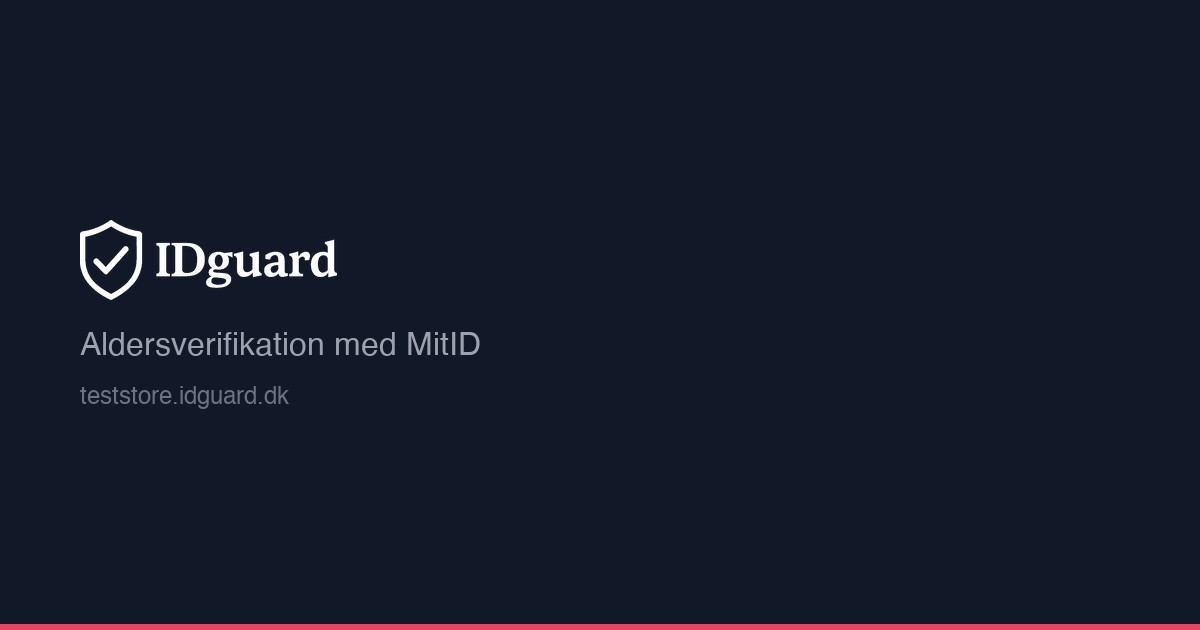
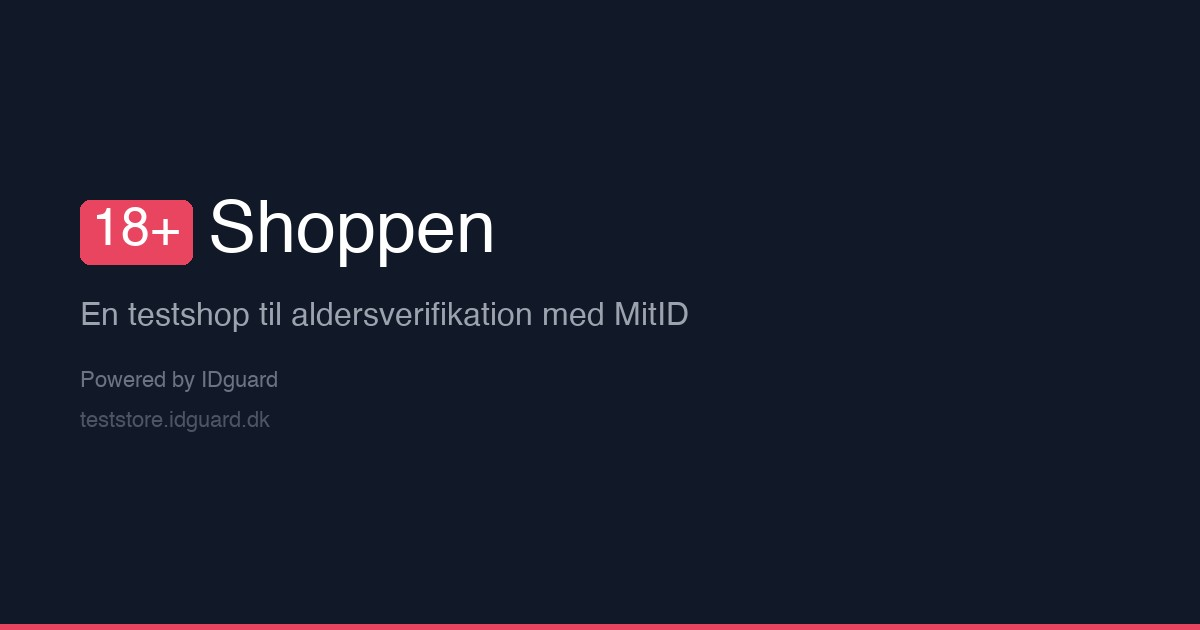
Rebrand shop to '18+ Shoppen' with Powered by IDguard
- Header: text logo with red 18+ badge
- Footer: 18+ Shoppen brand + 'Powered by IDguard' with logo link
- New OG image with 18+ Shoppen branding
- Updated theme name in style.css

Changed region(s): [[0.0617, 0.3016, 0.5858, 0.6937]]

diff --git a/style.css b/style.css
@@ -1,7 +1,7 @@
 /*
-Theme Name: IDguard Test Store
-Theme URI: https://idguard.dk
-Description: Minimalist WooCommerce theme for the IDguard test store — age verification with MitID.
+Theme Name: 18+ Shoppen
+Theme URI: https://teststore.idguard.dk
+Description: Minimalist WooCommerce theme for 18+ Shoppen — a test store for IDguard age verification with MitID.
 Author: IDguard
 Version: 1.1.0
 Requires at least: 6.0
@@ -103,14 +103,23 @@ img { max-width: 100%; height: auto; display: block; }
 }
 
 .site-logo a {
+    color: #fff;
+    font-size: 1.25rem;
+    font-weight: 700;
+    letter-spacing: -0.3px;
     display: flex;
     align-items: center;
+    gap: 6px;
 }
 
-.site-logo .logo-img {
-    height: 28px;
-    width: auto;
-    filter: brightness(0) invert(1);
+.logo-age {
+    background: var(--color-accent);
+    color: #fff;
+    font-size: 0.8rem;
+    font-weight: 800;
+    padding: 2px 7px;
+    border-radius: 4px;
+    letter-spacing: 0;
 }
 
 .header-nav {
@@ -657,12 +666,38 @@ label {
     margin: 0 auto;
 }
 
-.footer-logo {
-    height: 24px;
+.footer-brand {
+    font-weight: 700;
+    color: rgba(255, 255, 255, 0.7);
+    font-size: 1rem;
+    margin-bottom: 8px;
+}
+
+.footer-brand .logo-age {
+    font-size: 0.7rem;
+    padding: 1px 5px;
+}
+
+.footer-powered {
+    display: flex;
+    align-items: center;
+    justify-content: center;
+    gap: 8px;
+    margin: 16px 0;
+    color: rgba(255, 255, 255, 0.4);
+    font-size: 0.8rem;
+}
+
+.powered-logo {
+    height: 18px;
     width: auto;
     filter: brightness(0) invert(1);
-    opacity: 0.7;
-    margin: 0 auto 8px;
+    opacity: 0.6;
+    transition: opacity var(--transition-fast);
+}
+
+.powered-logo:hover {
+    opacity: 1;
 }
 
 .footer-tagline {

diff --git a/footer.php b/footer.php
@@ -1,7 +1,13 @@
     <footer class="site-footer">
         <div class="footer-inner">
-            <img src="<?php echo esc_url(get_template_directory_uri() . '/assets/images/idguard-logo.png'); ?>" alt="IDguard" class="footer-logo">
-            <p class="footer-tagline">Aldersverifikation med MitID &mdash; hurtigt, sikkert, og uden besvær.</p>
+            <p class="footer-brand"><span class="logo-age">18+</span> Shoppen</p>
+            <p class="footer-tagline">En testshop til aldersverifikation med MitID.</p>
+            <div class="footer-powered">
+                <span>Powered by</span>
+                <a href="https://idguard.dk">
+                    <img src="<?php echo esc_url(get_template_directory_uri() . '/assets/images/idguard-logo.png'); ?>" alt="IDguard" class="powered-logo">
+                </a>
+            </div>
             <div class="footer-links">
                 <a href="https://idguard.dk">idguard.dk</a>
                 <a href="<?php echo esc_url(wc_get_page_permalink('shop')); ?>">Shop</a>

diff --git a/header.php b/header.php
@@ -13,7 +13,7 @@
         <div class="header-inner">
             <div class="site-logo">
                 <a href="<?php echo esc_url(home_url('/')); ?>">
-                    <img src="<?php echo esc_url(get_template_directory_uri() . '/assets/images/idguard-logo.png'); ?>" alt="IDguard" class="logo-img">
+                    <span class="logo-age">18+</span> Shoppen
                 </a>
             </div>
             <nav class="header-nav">
